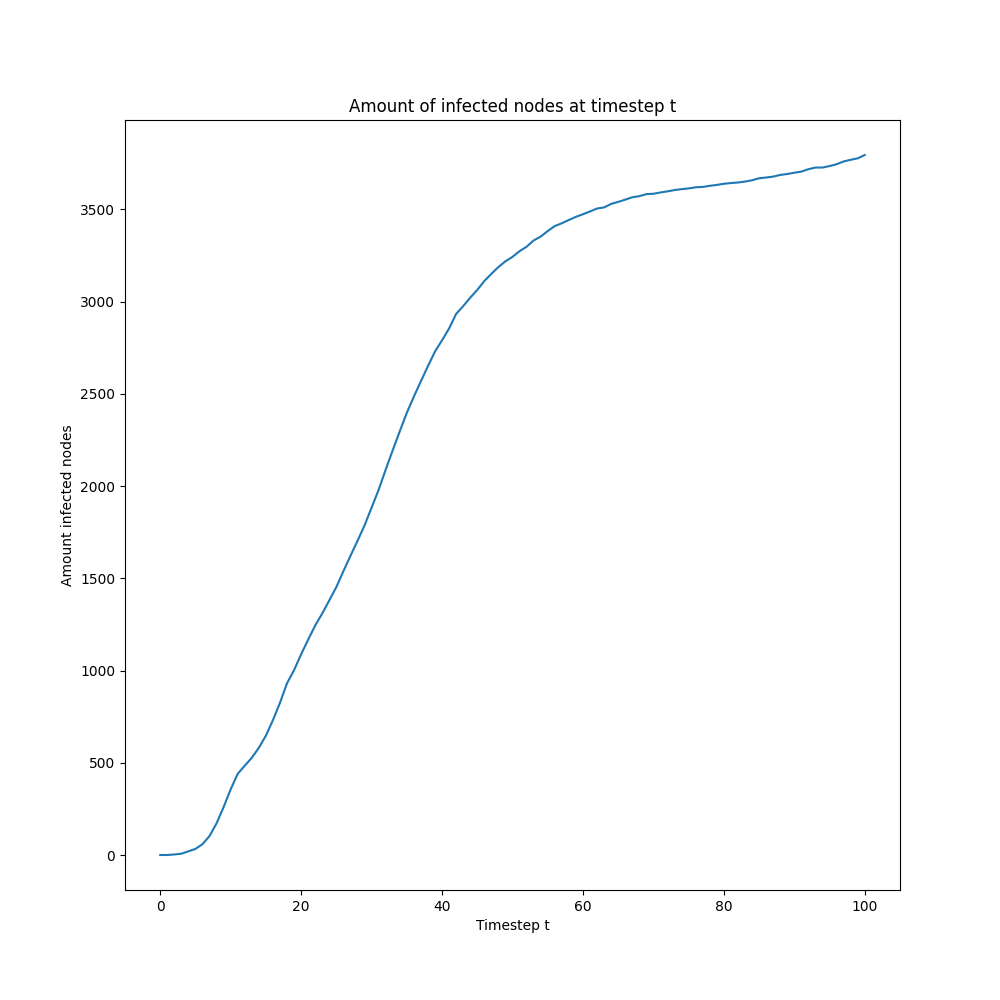
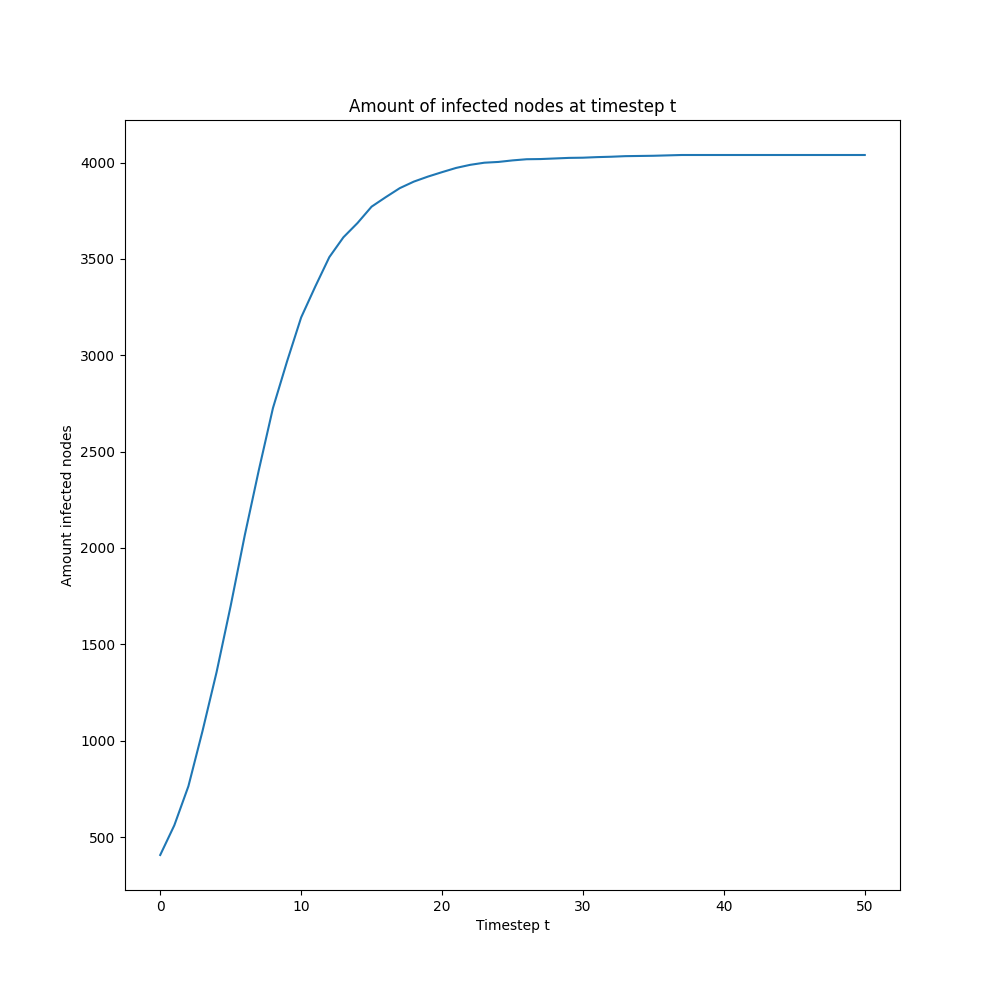
Created naive_model_comparison.py where the spread on 2 networks are compared

diff --git a/naive_model_comparison.py b/naive_model_comparison.py
@@ -1,0 +1,29 @@
+import matplotlib.pyplot as plt
+from SocialGraph import SocialGraph
+
+i, i_init, time_steps = 0.01, 0.1, 50
+
+# open the facebook and barabasi-albert networks
+facebook = SocialGraph("facebook_combined.txt", i, i_init, time_steps)
+BA = SocialGraph("barabasi_albert.txt", i, i_init, time_steps)
+
+# run simulation
+for _ in range(time_steps):
+    facebook.make_timestep()
+    BA.make_timestep()
+
+
+# normalize number of infected nodes
+facebook_percent = [i / len(facebook.G.nodes) for i in facebook.infected_at_t]
+BA_percent = [i / len(BA.G.nodes) for i in BA.infected_at_t]
+
+# plotting spread on both networks
+plt.figure(figsize=(10, 10))
+plt.plot(list(range(facebook.time_steps + 1)), facebook_percent, label='Facebook')
+plt.plot(list(range(facebook.time_steps + 1)), BA_percent, label='BA')
+plt.xlabel("Timestep t")
+plt.ylabel("Amount infected nodes")
+plt.title("Amount of infected nodes at timestep t")
+plt.legend()
+plt.savefig("naive_facebookvsBA.png")
+

diff --git a/SocialGraph.py b/SocialGraph.py
@@ -55,16 +55,18 @@ class SocialGraph:
         if show:
             plt.show()
 
-    def show_infected_plot(self):
+    def show_infected_plot(self, title):
         """
             Plot the amount of infected nodes in a graph.
         """
+        # normalize number of infected nodes
+        infected_at_t_percent = [i / len(self.G.nodes) for i in self.infected_at_t]
         plt.figure(figsize=(10, 10))
-        plt.plot(list(range(self.time_steps + 1)), self.infected_at_t)
+        plt.plot(list(range(self.time_steps + 1)), infected_at_t_percent)
         plt.xlabel("Timestep t")
         plt.ylabel("Amount infected nodes")
         plt.title("Amount of infected nodes at timestep t")
-        plt.savefig("infectedplt.png")
+        plt.savefig(title)
 
     def set_init_values(self, i, i_init):
         self.i = i
